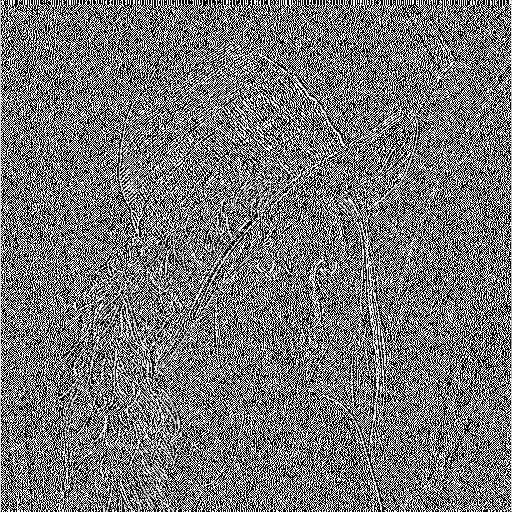
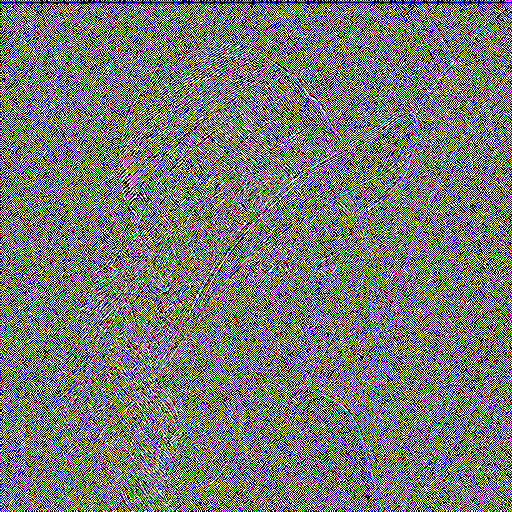
[fix](srm): 修改SRM卷积核形状为(3, 3, 5, 5)

diff --git a/model/networks/srm.py b/model/networks/srm.py
@@ -26,13 +26,16 @@ class SRMLayer(nn.Module):
         filter1 = np.array(filter1) / 4
         filter2 = np.array(filter2) / 12
         filter3 = np.array(filter3) / 2
-        filters = np.array([[filter1, filter2, filter3]])  # shape=(5,5,3)
+        filters = np.array([[filter1, filter1, filter1],
+                            [filter2, filter2, filter2],
+                            [filter3, filter3, filter3]])  # shape=(5,5,3)
         filters = torch.tensor(filters, dtype=torch.float)
         # print(filters)
 
         self.conv = nn.Conv2d(in_channels=3, out_channels=3, kernel_size=5, stride=1, padding=2,
                               bias=False)  # 输入和输出通道数都为3，卷积核大小为5x5，stride为1，padding为2（same填充方式填充kernel_size/2（向下取整）；valid不填充）
-        self.conv.weight = nn.Parameter(filters)
+        self.conv.weight.data = nn.Parameter(filters)
+        print(self.conv.weight)
 
     def forward(self, x):
         x = self.conv(x)
@@ -64,6 +67,8 @@ def tst_srm(img_path, noise_path):
     with torch.no_grad():
         noise_img = srm_layer(input_tensor)
     # noise_img = srm_layer(input_tensor)
+
+    print(noise_img.size())
 
     # 将张量转换为图片
     noise_img = noise_img.squeeze(0).permute(1, 2, 0).numpy()
